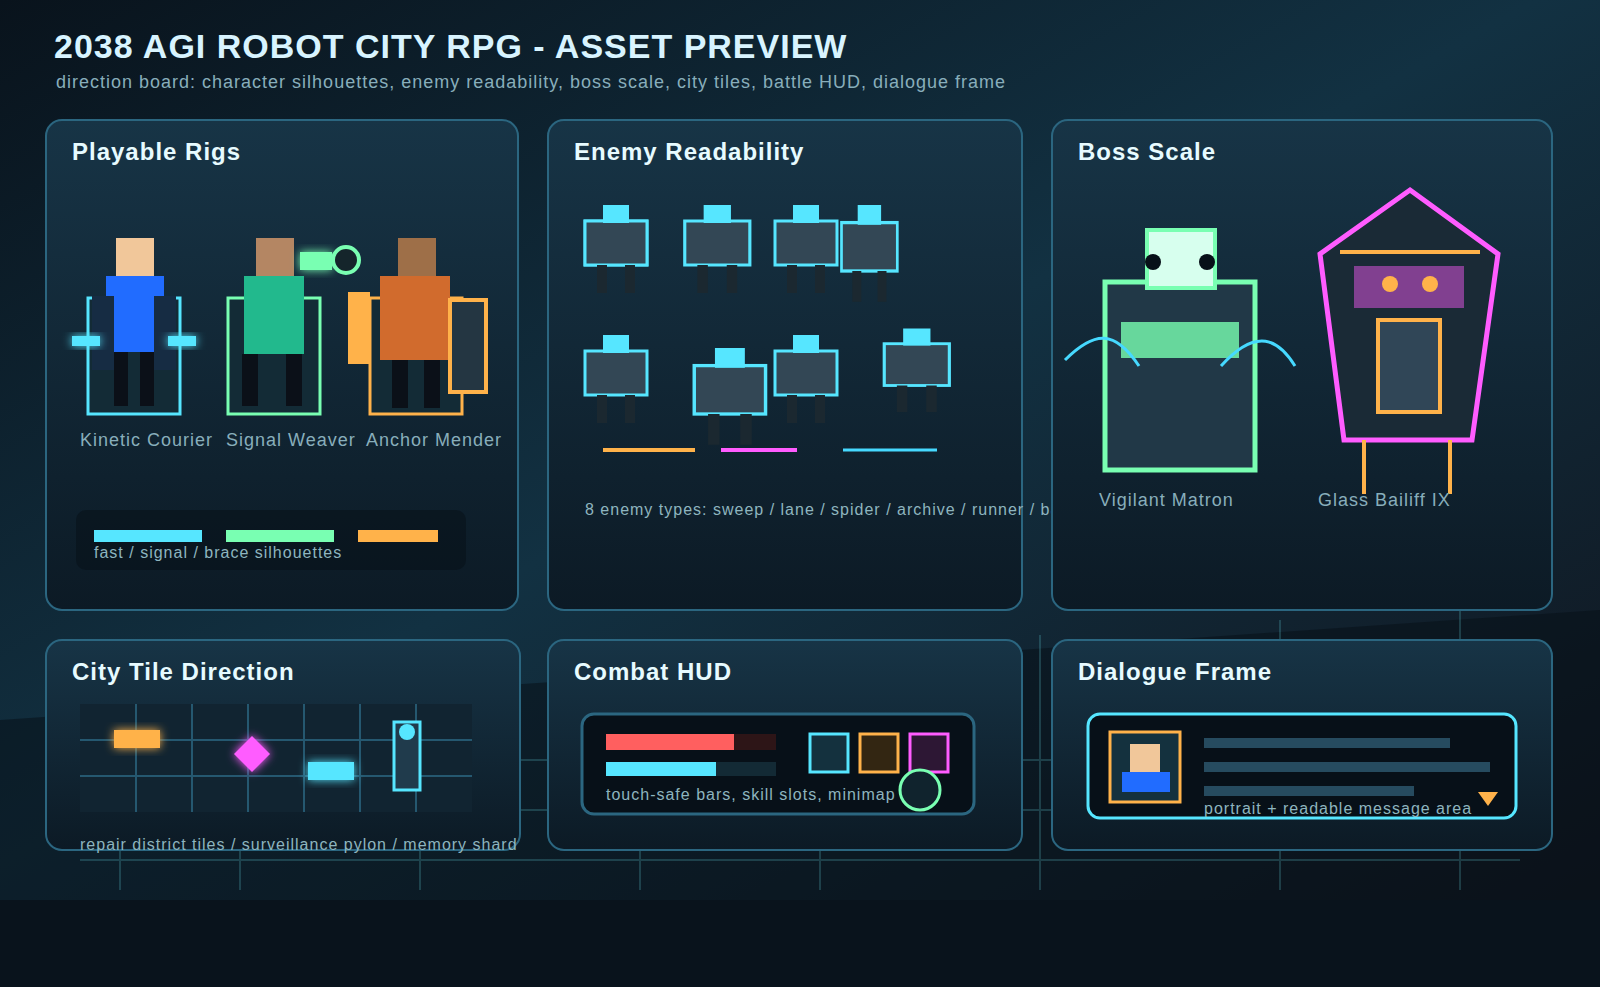
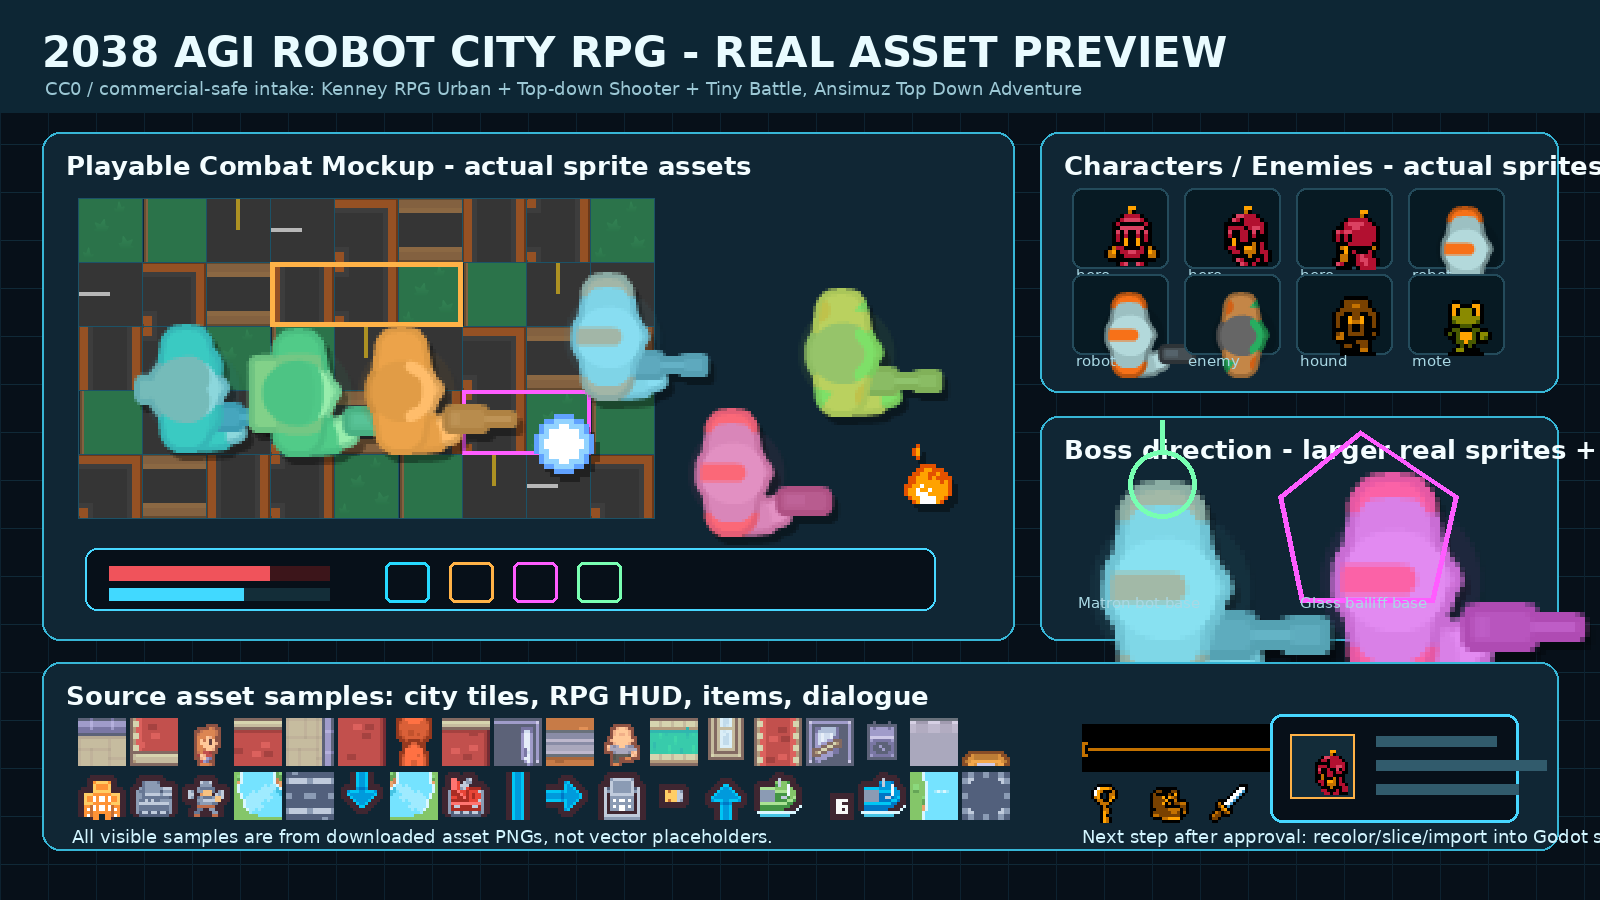
docs(assets): replace preview with real sprites

diff --git a/CREDITS.md b/CREDITS.md
@@ -1,6 +1,6 @@
 # Credits
 
-Current shipped third-party art/audio assets at Wave 0: none. This file is prepared for the approved asset strategy in ASSET_LEDGER.md and must be updated before any imported asset is included in a playable APK.
+Current third-party art/audio assets committed to the repository: one preview-only screenshot at `docs/screenshots/assets-preview.png`, composed from the CC0 candidate assets listed below. Final in-game imports still require the normal asset audit gate before APK shipping.
 
 ## Credit Policy
 
@@ -20,6 +20,7 @@ Use these lines only after the corresponding asset files are imported:
 | RPG Urban Pack / RPG Urban Kit | https://kenney.nl/assets/rpg-urban-pack / https://kenney-assets.itch.io/rpg-urban-kit | Kenney | CC0 1.0 Universal | `Assets by Kenney (kenney.nl), CC0.` |
 | Tiny Town | https://kenney.nl/assets/tiny-town | Kenney | Creative Commons CC0 | `Assets by Kenney (kenney.nl), CC0.` |
 | Top-down Shooter | https://www.kenney.nl/assets/top-down-shooter | Kenney | Creative Commons CC0 | `Assets by Kenney (kenney.nl), CC0.` |
+| Tiny Battle | https://kenney.nl/assets/tiny-battle | Kenney | Creative Commons CC0 | `Assets by Kenney (kenney.nl), CC0.` |
 | Top Down Dungeon Pack | https://opengameart.org/content/top-down-dungeon-pack | Screaming Brain Studios | CC0 | `Top Down Dungeon Pack by Screaming Brain Studios, CC0.` |
 | Top-down simple tile-sets | https://opengameart.org/content/top-down-simple-tile-sets | yd | CC0 | `Top-down simple tile-sets by yd, CC0.` |
 | Top Down Adventure Assets | https://opengameart.org/content/top-down-adventure-assets | ansimuz | CC0 | `Top Down Adventure Assets by Ansimuz, CC0.` |

diff --git a/ASSET_LEDGER.md b/ASSET_LEDGER.md
@@ -33,6 +33,7 @@ Every asset imported into the Godot project must have a row with these fields be
 | Primary urban RPG tiles, props, vehicles, and four-direction characters | https://kenney.nl/assets/rpg-urban-pack and https://kenney-assets.itch.io/rpg-urban-kit | Kenney | Creative Commons CC0 1.0 Universal | Yes, source page states commercial projects are allowed. | Yes, CC0 permits bundling modified or unmodified runtime assets in the APK. | Yes for project-ready extracted CC0 files and the license proof. Prefer not to commit the zip archive. | Yes, CC0 permits edits. | Optional: `Assets by Kenney (kenney.nl), CC0.` Do not use the Kenney logo. | Yes for CC0 content if needed; no for convenience bundles or purchase artifacts unless their license file expressly allows public mirror distribution. | Approved first choice. |
 | Compact overworld/town fallback tiles | https://kenney.nl/assets/tiny-town | Kenney | Creative Commons CC0 | Yes, covered by Kenney asset-page CC0 policy. | Yes, CC0 permits APK bundling. | Yes for project-ready extracted CC0 files and the license proof. Prefer not to commit the zip archive. | Yes, CC0 permits edits. | Optional: `Assets by Kenney (kenney.nl), CC0.` Do not use the Kenney logo. | Yes for CC0 content if needed; no for all-in-one bundle archives or purchase artifacts unless license proof allows public mirror distribution. | Approved fallback if the urban pack does not cover a needed map area. |
 | Top-down combat or prototype props | https://www.kenney.nl/assets/top-down-shooter | Kenney | Creative Commons CC0 | Yes, covered by Kenney asset-page CC0 policy. | Yes, CC0 permits APK bundling. | Yes for project-ready extracted CC0 files and the license proof. Prefer not to commit the zip archive. | Yes, CC0 permits edits. | Optional: `Assets by Kenney (kenney.nl), CC0.` Do not use the Kenney logo. | Yes for CC0 content if needed; no for all-in-one bundle archives or purchase artifacts unless license proof allows public mirror distribution. | Approved only if visual style remains coherent with the selected base pack. |
+| Small tactical units and battle props | https://kenney.nl/assets/tiny-battle | Kenney | Creative Commons CC0 | Yes, covered by Kenney asset-page CC0 policy. | Yes, CC0 permits APK bundling. | Yes for project-ready extracted CC0 files and the license proof. Prefer not to commit the zip archive. | Yes, CC0 permits edits. | Optional: `Assets by Kenney (kenney.nl), CC0.` Do not use the Kenney logo. | Yes for CC0 content if needed; no for all-in-one bundle archives or purchase artifacts unless license proof allows public mirror distribution. | Approved for tactical-unit previews and small battle props if palette is normalized. |
 | Dungeon floor and wall tiles | https://opengameart.org/content/top-down-dungeon-pack | Screaming Brain Studios | CC0 | Yes, source page states commercial and non-commercial projects are allowed. | Yes, source page and CC0 allow redistribution in the APK. | Yes for downloaded CC0 files and license proof. | Yes, CC0 permits edits. | Optional: `Top Down Dungeon Pack by Screaming Brain Studios, CC0.` | Yes, because the source page publishes the downloadable asset under CC0. | Approved secondary source after recording page snapshot and license proof. |
 | Simple top-down tileset construction templates | https://opengameart.org/content/top-down-simple-tile-sets | yd | CC0 | Yes, CC0 permits commercial use. | Yes, CC0 permits APK bundling. | Yes for downloaded CC0 files and license proof. | Yes, CC0 permits edits. | Optional: `Top-down simple tile-sets by yd, CC0.` | Yes, because the source page lists the files under CC0. | Approved for prototyping or internal tile editing. |
 | Top-down adventure character, NPC, tiles, and chiptune pack | https://opengameart.org/content/top-down-adventure-assets | ansimuz | CC0 | Yes, source page states personal and commercial projects are allowed. | Yes, source page states the file can be redistributed. | Yes, source page states the file can be redistributed. | Yes, source page states assets can be modified. | Optional: `Top Down Adventure Assets by Ansimuz, CC0.` | Yes, because the source page states the file can be redistributed. | Approved only if the mixed art/audio style is accepted for the game direction. |